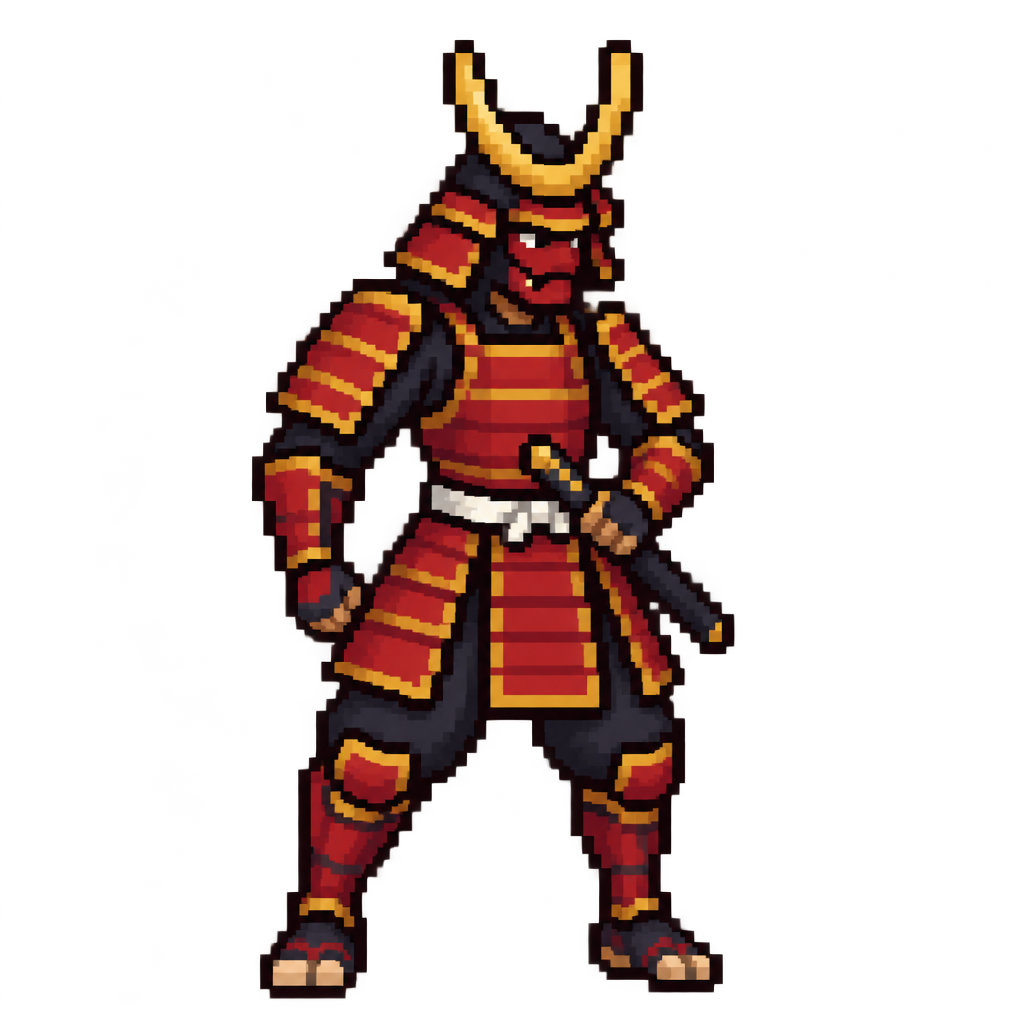
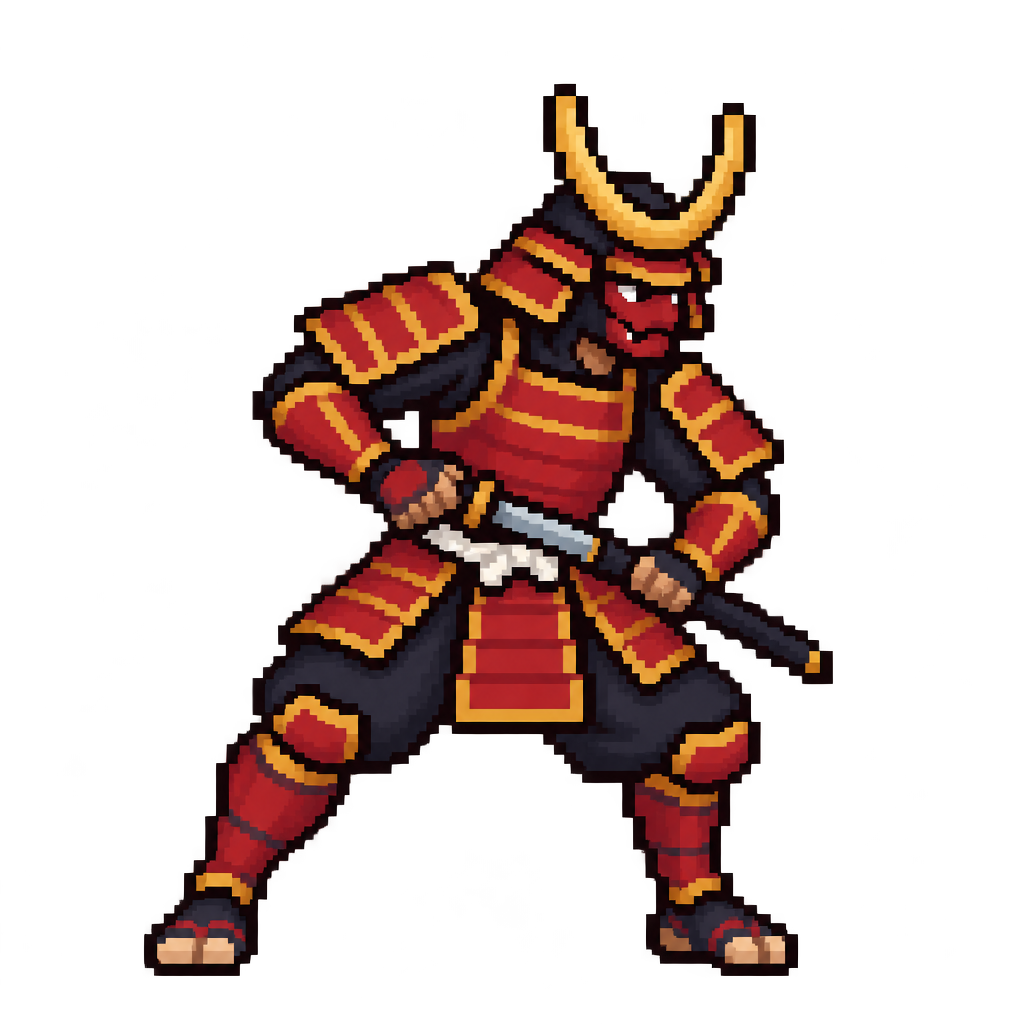
Act V art review round 1 (Group C): oni, Oni Lord and Bound Oni with the kanabo over the shoulder, bold chains, samurai iai stance
Claude-Session: https://claude.ai/code/session_01TjA5CNwUWb95gMazj5Z3qp

diff --git a/tools/walk_cycle.py b/tools/walk_cycle.py
@@ -503,11 +503,11 @@ RIGS = {
     # legs); the Onryo glides (the whole ghost bobs 2 px; the still keeps two empty rows on top, no bust: a ghost, not the
     # figure-redesign style); the Oni stomps, his iron kanabo (held low across the front) riding with the body above the hip.
     "shogunate/ashigaru": dict(mode="legs", hip=39, back=(0, 13), front=(13, 22), rigid=[(3, 6, 0, None)], spread=2, lift=2, dip=1),
-    "shogunate/samurai": dict(mode="legs", hip=40, back=(0, 17), front=(17, 32), rigid=[], spread=2, lift=2, dip=1),
+    "shogunate/samurai": dict(mode="legs", hip=40, back=(0, 23), front=(23, 52), rigid=[], spread=2, lift=2, dip=1),
     "shogunate/teppo_gunner": dict(mode="legs", hip=33, back=(0, 32), front=(32, 62), rigid=[], spread=2, lift=2, dip=1),
     "shogunate/ninja": dict(mode="legs", hip=28, back=(0, 18), front=(18, 36), rigid=[], spread=2, lift=2, dip=1),
     "shogunate/onryo": dict(mode="hover", bob=2, parts=[]),
-    "shogunate/oni": dict(mode="legs", hip=66, back=(0, 26), front=(26, 64), rigid=[], spread=3, lift=3, dip=1),
+    "shogunate/oni": dict(mode="legs", hip=61, back=(0, 31), front=(31, 70), rigid=[], spread=3, lift=3, dip=1),
     # --- Act V: the Burning Province ---
     # The Kunoichi strides, a tanto in each hand (the blades riding with the body below the hip), with a bust box and
     # idle breathing (figure-redesign style); the Kappa scuttles, its reaching claw rigid; Shuten-doji stomps, his
@@ -529,8 +529,8 @@ RIGS = {
     "shogunate/kitsune": dict(mode="robe", hip=34, rigid=[], sway=2, dip=1, bust=(13, 23, 15, 22, 1)),
     "bosses/amaterasu": dict(mode="robe", hip=78, rigid=[], sway=1, dip=1, bust=(36, 52, 34, 45, 1)),
     "player/shrine_maiden": dict(mode="robe", hip=36, rigid=[], sway=2, dip=1, bust=(17, 27, 17, 25, 1)),
-    "summons/bound_oni": dict(mode="legs", hip=46, back=(0, 18), front=(18, 37), rigid=[(37, 46, 0, None)], spread=2, lift=2, dip=1),
-    "summons/oni_lord": dict(mode="legs", hip=59, back=(0, 32), front=(32, 54), rigid=[(54, 66, 0, None)], spread=2, lift=2, dip=1),
+    "summons/bound_oni": dict(mode="legs", hip=50, back=(0, 26), front=(26, 54), rigid=[], spread=2, lift=2, dip=1),
+    "summons/oni_lord": dict(mode="legs", hip=60, back=(0, 31), front=(31, 68), rigid=[], spread=2, lift=2, dip=1),
     # --- Act V: Castle Kurogane ---
     # The Hatamoto marches under his tall white banner (pole cols 22-28, the whole height, rigid); the Kiba-musha and the
     # General of the Left gallop (the horse's hind legs left, forelegs right; a wide spread and a high lift); Shogun

diff --git a/docs/GDD.md b/docs/GDD.md
@@ -1746,6 +1746,7 @@ Decisions made since the source was written are recorded in 15.0; everything bel
 | — | Castle Kurogane smoke run (Act V phase 2) | The brief's one agent run: `--stage=kurogane --policy=army --seed=7 --mortal`: **VICTORY** (the run reached 0:00 and the Endless Night, 63.8 s past it), zero `SCRIPT ERROR` / `ERROR:` / `WARNING:`, `stuck_units=0`, lowest HP before 0:00 76. The Sun's Course reached every phase (dusk 7:00, night 13:00, the Endless Night 20:00), 8 lanterns lit; the Draw 31 lines (all dodged by the bot), the ambushes 30 squads (111 units, 23 inside the ring). The General of the Left arrived at 11:00 and fell at 12:57 (31 charges, 293 summons struck, 15 riders). The Hatamoto: 56 spawned and killed; the Kiba-musha 331 charges. **The Shogun:** his six regiments marched; the spear wall broke at 17:21, the arquebus line 17:33, the cavalry 18:11, the ambush 18:13, the night host 18:29 (the duel squad's Hatamoto still stood: 5 of 6 banners, so no Regiments Broken); 260 soldiers sent, 119 killed (51 ambush ninja), 180 other kills off the bar, 74 fled, 120 of reserve lost; he came down at 18:29 with 59 points left, cut 7 iai lines and 4 triple cuts, and fell at 18:56 (all his cuts dodged by the bot; 5,236 damage to summons). A second run, `--policy=evolve --seed=7 --character=ronin_revenant --spells=banner_of_the_dead --passives=unbending`: VICTORY, zero errors, `stuck_units=0`; Banner of the Dead Lv 4 planted 152 banners (8,280 damage, 69 kills; haste x1.3 from Unbowed Banner), Warlord's Seal Lv 3, Unbending Lv 5 (Draw cuts on summons x0.45). That spell-only build barely killed (the enemies filled the hard cap): the Shogun's regiments sent 21 soldiers and he never came down, the intended answer to an army too weak to break his (the bar is his army). Hundred Banners was not reached in either run (no chest evolution), so its path is reviewed but untested in play. |
 | — | Act V integration balance (lead's balance agent, Oct 26, 2026) | The merged Act V branch, `--policy=army --mortal`, seeds 3 / 7 / 11. **The Road to the Sun** was too hard for the army bot: before, all three died (seed 3 at 8:18, the ring broken at dusk when the stage's x1.5 damage step met the Sōhei's sweeps; seed 7 at 18:00 and seed 11 at 18:22 in Amaterasu's first minute: mirror ~1,950, zenith ~1,360 and mines ~840 damage to summons in 60 s, the army 38 -> 9; on another draw of seed 11 the Kirin broke the ring at 12:00 and it never recovered). Four data changes, Road-only (the other stages' numbers untouched): the stage's enemy damage **1.5 -> 1.35** (the Olympus precedent; the finale's step up stays in HP x1.65 and in its boss); the **Sōhei's sweep on summons 9 -> 6** (its 125° arc cuts several summons at once: the stage's top summon killer on every seed); **Amaterasu on summons**: mirror 3.5 -> 2 a tick, mines 10 -> 6, zenith 12 -> 8; **Amaterasu on the necromancer**: zenith 12 -> 8 and the noon glare 10 -> 7 (~40 a glare at 17:00 when no shadow is in reach). Her HP stays 14,000 (23,100 on the Road, Kage 17,050, Hades 24,000): with the army standing she falls 88-118 s after her arrival, and on the weak seed 3 she lives to 0:00 with 3,582 left (1,171 at the end), so she usually dies and the finale keeps the act's biggest boss. **After:** seed 3 VICTORY, min HP 61 (Amaterasu alive at 0:00); seed 7 VICTORY, min HP 88, Amaterasu slain at 18:52 (112 s); seed 11 VICTORY, min HP 90, slain at 18:28 (88 s); for information (not tuned for), seed 7 `--policy=summon` VICTORY, min HP 110, she survives with 7,610 at 0:00; `--policy=evolve` VICTORY, min HP 67, slain at 18:59. **Regiments Broken was unreachable for a banner still standing at the duel**: `BossShogun` stepped `ShogunRegiments` only on the platform and in the leap, so a Hatamoto killed in the duel never broke his banner (seed 7: the duel squad's Hatamoto marched at ~18:05, stood ~300-500 px out behind his samurai and died in the duel unseen; seed 11 the same with the night host). Fix: the duel steps the regiments too (stopped: no more marching; deaths, breaks and flight as before), so the regiment timing data stays as it was: with it, seed 7 broke 6 / 6 (the duel squad at 18:47 in the duel, the Shogun slain at 18:53) and seed 11 6 / 6 (the night host at 18:32), both Regiments Broken; a player who walks the army to the last banner has the whole duel (13-24 s here) besides the march. **Co-op regiments:** each regiment's `size` (and so the bar) is x `CoopData.SCALING` enemy_spawn (2) through `DifficultyModifiers.coop_mult()` (exactly 1 in solo: solo bit-identical), read once at his arrival; batch, field and Hatamoto unchanged. `--coop-bot --policy=army --stage=kurogane --seed=7`: VICTORY, bar 1,200, 6 / 6 banners broken, Regiments Broken, the Shogun slain at 19:07, min HP 84 / 66. Every run: zero SCRIPT ERROR / ERROR / WARNING, `stuck_units=0`; `--import` clean. **Open for the owner:** Castle Kurogane on seed 3 dies at 11:56 to the General of the Left (seed 11 lowest HP 32), so after this pass the bots find Kurogane's middle the sharpest Act V spike, not the Road (the Province: seed 3 VICTORY, lowest HP 90); its numbers were left to its own pass. |
 | — | Act V epilogue and the Pit Keeps Count card | The Act V epilogue part (`EpilogueData.ACT5_PART`, "The Sun Goes Out") is now in `PARTS` after Act IV, opened by the achievement The Sun Goes Out, with its four panels (`act5_1` the army marching up the Road to the Sun toward a torii and the low sun, `act5_2` the dead fighting samurai in the burning rice fields with fallen ninja, `act5_3` the Shogun kneeling beaten in Castle Kurogane's courtyard, `act5_4` Amaterasu falling as the sun goes dark over the clouds) and the closing card "The Pit Keeps Count" (`close_act5`: a terraced pit of red rock with tally-marked ledger slabs, hanging chains, teal soul wisps and two huge red embers far below in the dark; it sets up Act VI, the Inferno, with no demon shown; a tiny necromancer figure stands at the rim). Five API images, about $0.10 (ledger), converted with `tools/epilogue_panel.py` (`PANEL_OPTS`, default drops); sources and prompts in `art_source/epilogue/`. Art and data only: Act I-IV runs unchanged. |
+| — | Act V art review, round 1 (Group C: the oni and the samurai) | Owner redo notes handled: `shogunate/oni` and `summons/oni_lord` regenerated with the kanabō resting over the shoulder; `summons/bound_oni` regenerated with the same shoulder pose and bold bone-and-iron chains (collar ring, wrist shackles with big dangling links, chest chain), ashen skin and soul-teal eyes kept; `shogunate/samurai` regenerated in an iai stance (crouched, hand gripping the hilt, scabbard angled), same armour and crest. Walk strips rebuilt with new rigs in `tools/walk_cycle.py` (hip and leg columns re-fitted; the club now rides with the upper body). Sprite sizes: oni 70x80, samurai 52x56 (wider crouch), Oni Lord 68x70, Bound Oni 54x60. Icons `icons/bound_oni` and `icons/oni_lord` untouched. |
 
 ### 15.1 Core Rules and Run Structure
 

diff --git a/docs/art/ART_BIBLE.md b/docs/art/ART_BIBLE.md
@@ -2382,11 +2382,11 @@ where Act V units never stand. **For the owner's review.**
 | Key | What it is | Art px | Notes |
 |---|---|---|---|
 | `shogunate/ashigaru` | Ashigaru (fodder, male): jingasa hat, red do over an indigo jacket, a very long yari | 22x46 | legs walk (hip 39; the yari, cols 3-5, rigid). Body ~32 |
-| `shogunate/samurai` | Samurai (soldier, male): black-and-red lacquered o-yoroi, kabuto with a gold crescent crest, hand near the hilt of the katana | 32x56 | legs walk (hip 40). The Draw telegraph is code |
+| `shogunate/samurai` | Samurai (soldier, male): black-and-red lacquered o-yoroi, kabuto with a gold crescent crest, iai stance (crouched forward, right hand gripping the hilt, scabbard angled; art review round 1) | 52x56 | legs walk (hip 40, back 0-23, front 23-52). The Draw telegraph is code |
 | `shogunate/teppo_gunner` | Teppo Gunner (ranged, male): indigo jacket, red lacquer chest plate, a level arquebus, a smouldering match cord | 62x46 | legs walk (hip 33; the gun rides with the body) |
 | `shogunate/ninja` | Ninja (soldier, male): indigo-black hood and face wrap, a crouch, a steel shuriken | 36x40 | legs walk (hip 28) |
 | `shogunate/onryo` | Onryo (night fodder, female ghost): pale white burial kimono, long black hair over the face, reaching arms, a wisp tail | 38x36 | hover (the whole ghost bobs 2 px; two empty rows on top). No bust rig |
-| `shogunate/oni` | Oni (night heavy, male): red-skinned ogre, ivory horns, tiger-skin loincloth, an iron kanabo held low | 64x80 | legs walk (hip 66, spread 3, lift 3; the club rides above the hip) |
+| `shogunate/oni` | Oni (night heavy, male): red-skinned ogre, ivory horns, tiger-skin loincloth, an iron kanabo resting over his shoulder (art review round 1) | 70x80 | legs walk (hip 61, spread 3, lift 3; the club rides with the upper body) |
 | `obstacles/stone_lantern` (+ `_lit`) | A stone toro: base, post, lantern box with a window, wide roof, finial; `_lit` has a warm gold window | 28x40 | no strip; the glow pool is code |
 
 ### Act V: the Burning Province (Stage 13; Act V phase 2, Oct 2026)
@@ -2460,8 +2460,8 @@ Maiden and her Deathlord skin are +0.14 over the darkest floors (0.01 under the 
 | `bosses/amaterasu_mirror` | Her attack pose (BossPoseData 1): the mirror raised high | 88x112 | the beams' windups and her crossings |
 | `player/shrine_maiden` | The Shrine Maiden of Night (female, figure-redesign style): black hair with a moon ornament, a black and violet miko, a gohei, a tiny black sun above her hand | 42x56 | robe walk + bust (cols 17-26, rows 17-24), idle breathing |
 | `player/shrine_maiden_hyper` / `_untouchable` / `_deathlord` | Maiden of the Golden Dawn (white and gold), Untouchable (white phantom, soul-teal), Deathlord (black iron, spiked crown, crimson) | 44x56 / 42x56 / 36x58 | walk + idle through `SKINS` (`SKIN_FIX` bust boxes for the gilded and Deathlord skins) |
-| `summons/bound_oni` | Bound Oni: an ashen oni with ivory horns, soul-teal eyes, bone chains and collar, a spiked kanabo held low | 46x60 | legs walk (the club tip rigid) |
-| `summons/oni_lord` | Oni Lord: bigger, a bone crown between tall horns, broken chains, a kanabo studded with soul-teal iron, a tattered cape | 66x70 | legs walk (the club tip rigid) |
+| `summons/bound_oni` | Bound Oni: an ashen oni with ivory horns, soul-teal eyes, bone chains and collar, the kanabo resting over his shoulder, bold bone-and-iron collar, wrist shackles and big dangling chain links (art review round 1) | 54x60 | legs walk (the club rides with the upper body) |
+| `summons/oni_lord` | Oni Lord: bigger, a bone crown between tall horns, broken chains, a kanabo studded with soul-teal iron resting over his shoulder, a tattered cape | 68x70 | legs walk (the club rides with the upper body) |
 | `icons/black_sun`, `stolen_dawn`, `bound_oni`, `onis_resolve` | Violet badges: a black sun in a violet corona; a gold dawn swallowed by a black crescent, drawn into a bone hand; the bound oni's head; a broken bone chain over a kanabo | 32 | |
 | `icons/eclipse_of_heaven`, `oni_lord`, `ach_the_sun_goes_out` | Gold badges: two black suns in gold coronas; the Oni Lord's crowned head; a red torii before an extinguished sun | 32 | |
 | `tiles/sun_road_torii`, `_forest`, `_steps`, `_heaven` | Packed earth and gravel; dark moss; grey granite step courses (32 px, staggered); pale paving | 128 | `make_tile.py`; petals, ferns, cloud wisps and sunlight specks are code-drawn (`SunRoadGround`) |
